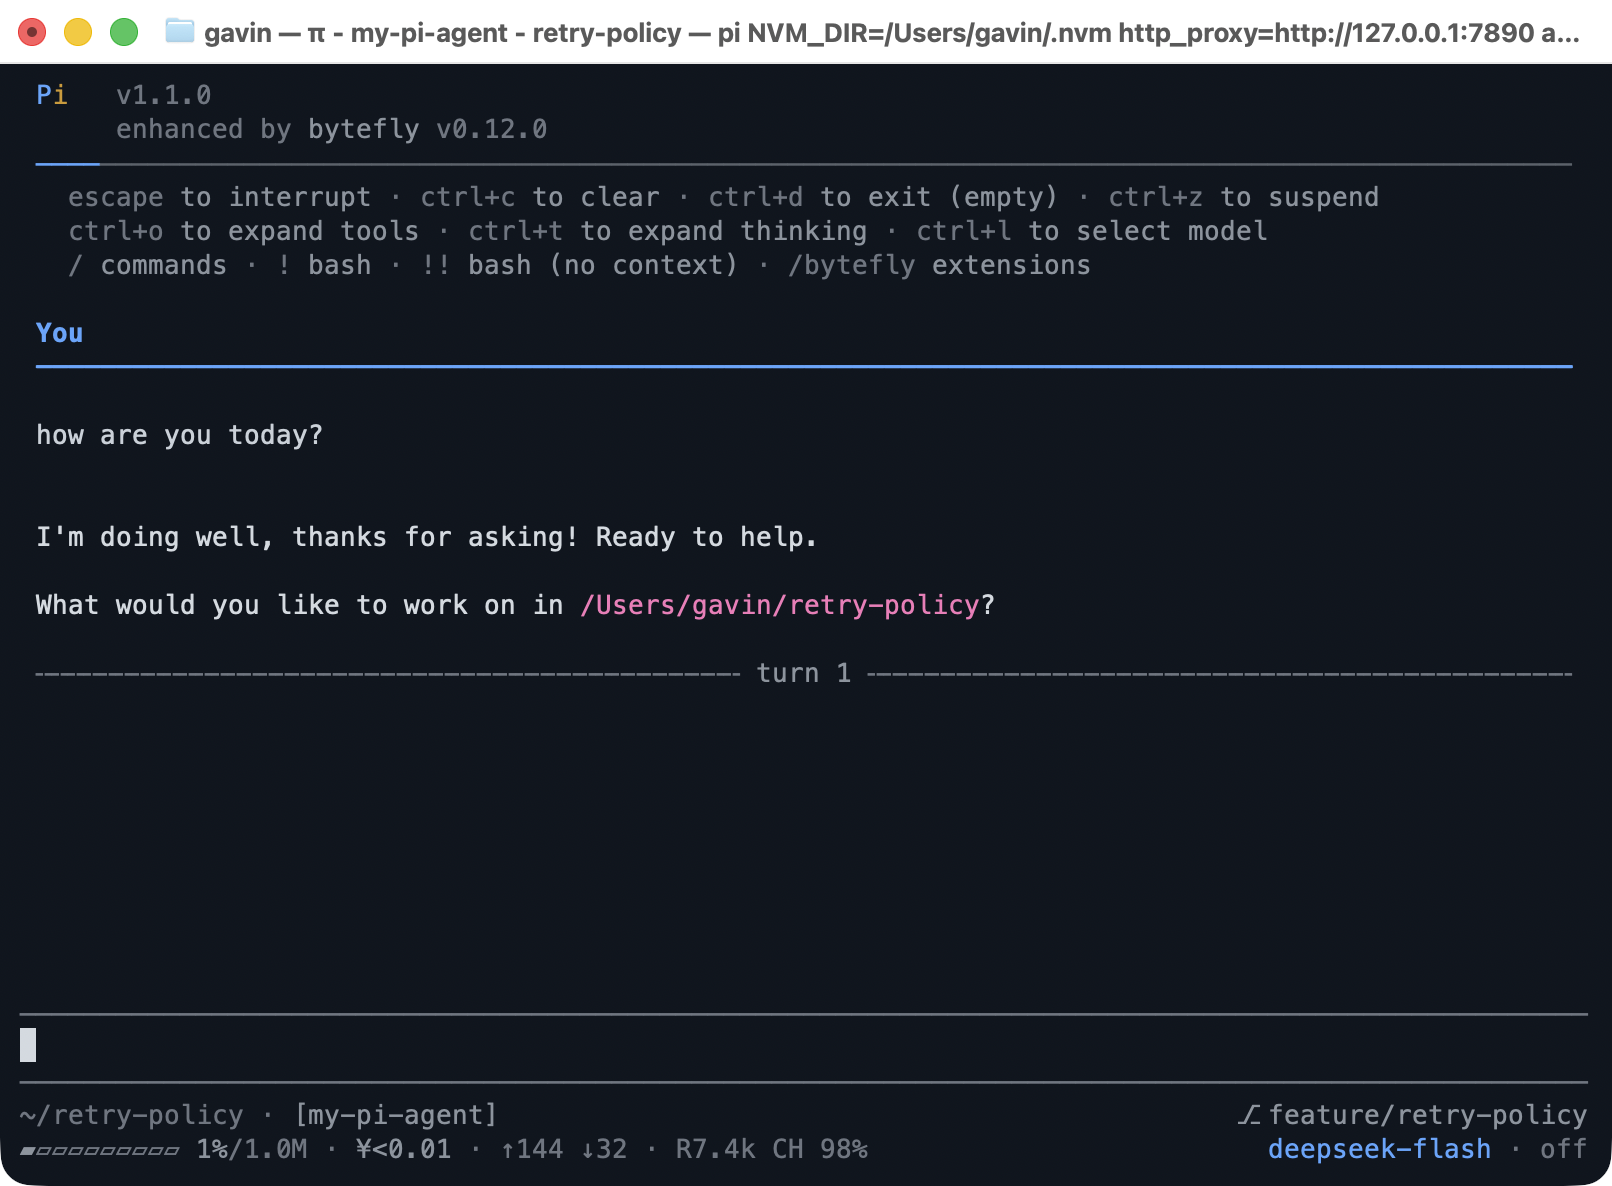
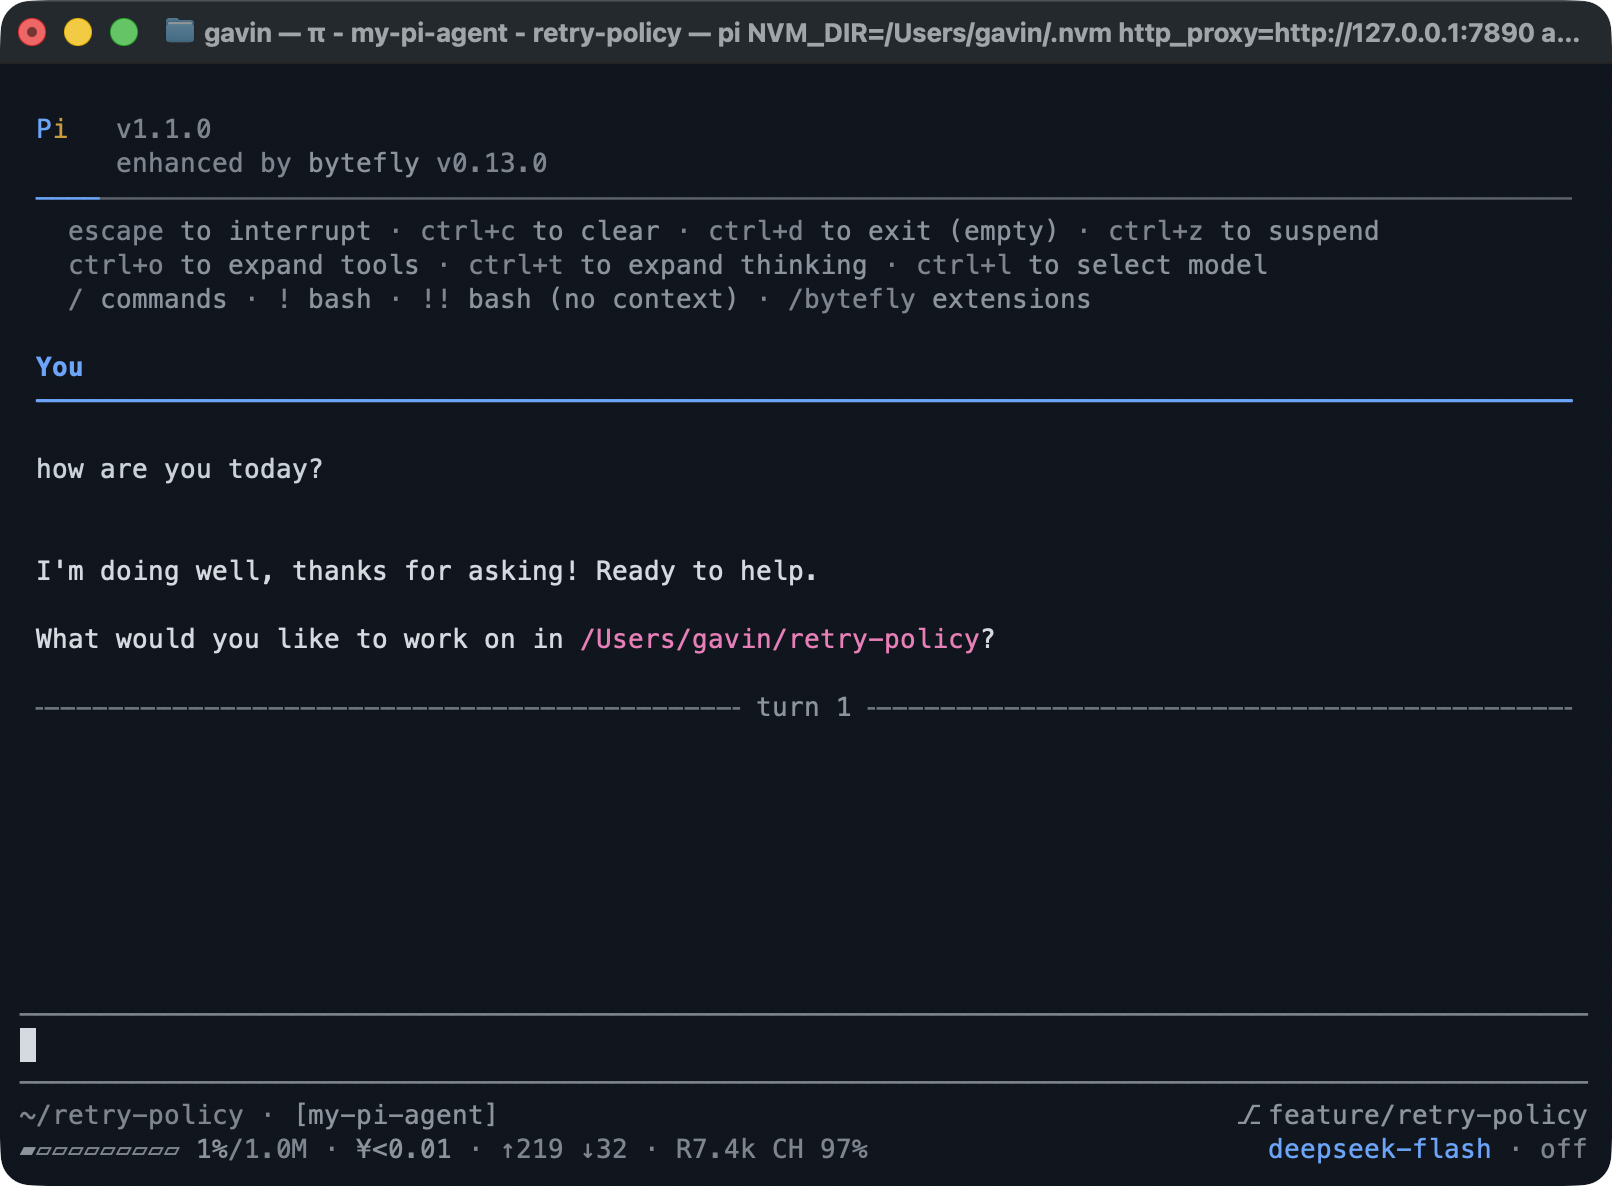
chore(release): 0.13.0
The window since 0.12.0 held 50 commits: 16 features and four behaviour-changing
defaults, so a minor bump rather than a patch. The changelog section moves under
its dated heading, `[Unreleased]` stays for the next window, the link refs and the
three install pins name 0.13.0, and the roadmap's "Where we are" names what this
release added.

`assets/chrome.png` is recaptured here because it prints the package version:
captured before the bump it would ship a hero reading "bytefly v0.12.0".

Changed region(s): [[0.0, 0.0, 1.0, 0.4056], [0.0, 0.4368, 0.6203, 0.6239]]

diff --git a/CHANGELOG.md b/CHANGELOG.md
@@ -6,6 +6,8 @@ to [Semantic Versioning](https://semver.org/spec/v2.0.0.html).
 
 ## [Unreleased]
 
+## [0.13.0] - 2026-10-18
+
 ### Added
 
 - `worktree`: `exit_worktree` ends with a `Handoff:` block naming the branch, its
@@ -2031,7 +2033,8 @@ one installable Pi package.
   the worktree it ran in, and the rewind end-to-end test seeds its snapshot with
   the native repo root.
 
-[Unreleased]: https://github.com/gavin-hu/my-pi-agent/compare/v0.12.0...HEAD
+[Unreleased]: https://github.com/gavin-hu/my-pi-agent/compare/v0.13.0...HEAD
+[0.13.0]: https://github.com/gavin-hu/my-pi-agent/releases/tag/v0.13.0
 [0.12.0]: https://github.com/gavin-hu/my-pi-agent/releases/tag/v0.12.0
 [0.11.4]: https://github.com/gavin-hu/my-pi-agent/releases/tag/v0.11.4
 [0.11.3]: https://github.com/gavin-hu/my-pi-agent/releases/tag/v0.11.3

diff --git a/ROADMAP.md b/ROADMAP.md
@@ -26,7 +26,10 @@ across `/resume` and `/tree`, and honest where a platform cannot deliver.
   this file to the tree.
 - Recent releases focused on the plan review browser, CNY/USD pricing, inline
   text editing in `/bytefly settings`, and moving exhaustive docs into
-  `docs/references/`.
+  `docs/references/`. `0.13.0` adds subset rewind, the `wake` desktop alert,
+  `/plan list`, the worktree handoff block, isolation gaps named in the session,
+  one reviewed publish path with provenance, a Pi-compat job, and a long-session
+  benchmark.
 
 ## How items are ordered
 

diff --git a/README.md b/README.md
@@ -51,7 +51,7 @@ Requires a working [Pi](https://pi.dev) installation.
 ```bash
 pi install npm:@gavin-hu/my-pi-agent                       # install from npm
 pi install git:github.com/gavin-hu/my-pi-agent             # install from git
-pi install git:github.com/gavin-hu/my-pi-agent@v0.12.0     # pin a release
+pi install git:github.com/gavin-hu/my-pi-agent@v0.13.0     # pin a release
 pi install ./ -l                                           # project-local (.pi/settings.json)
 pi -e .                                                    # try it for one run
 ```

diff --git a/docs/getting-started.md b/docs/getting-started.md
@@ -22,7 +22,7 @@ pi install npm:@gavin-hu/my-pi-agent
 pi install git:github.com/gavin-hu/my-pi-agent
 
 # Pin a release (npm versions and git tags name the same version)
-pi install git:github.com/gavin-hu/my-pi-agent@v0.12.0
+pi install git:github.com/gavin-hu/my-pi-agent@v0.13.0
 
 # Project-local install (.pi/settings.json in the current project)
 pi install ./ -l
